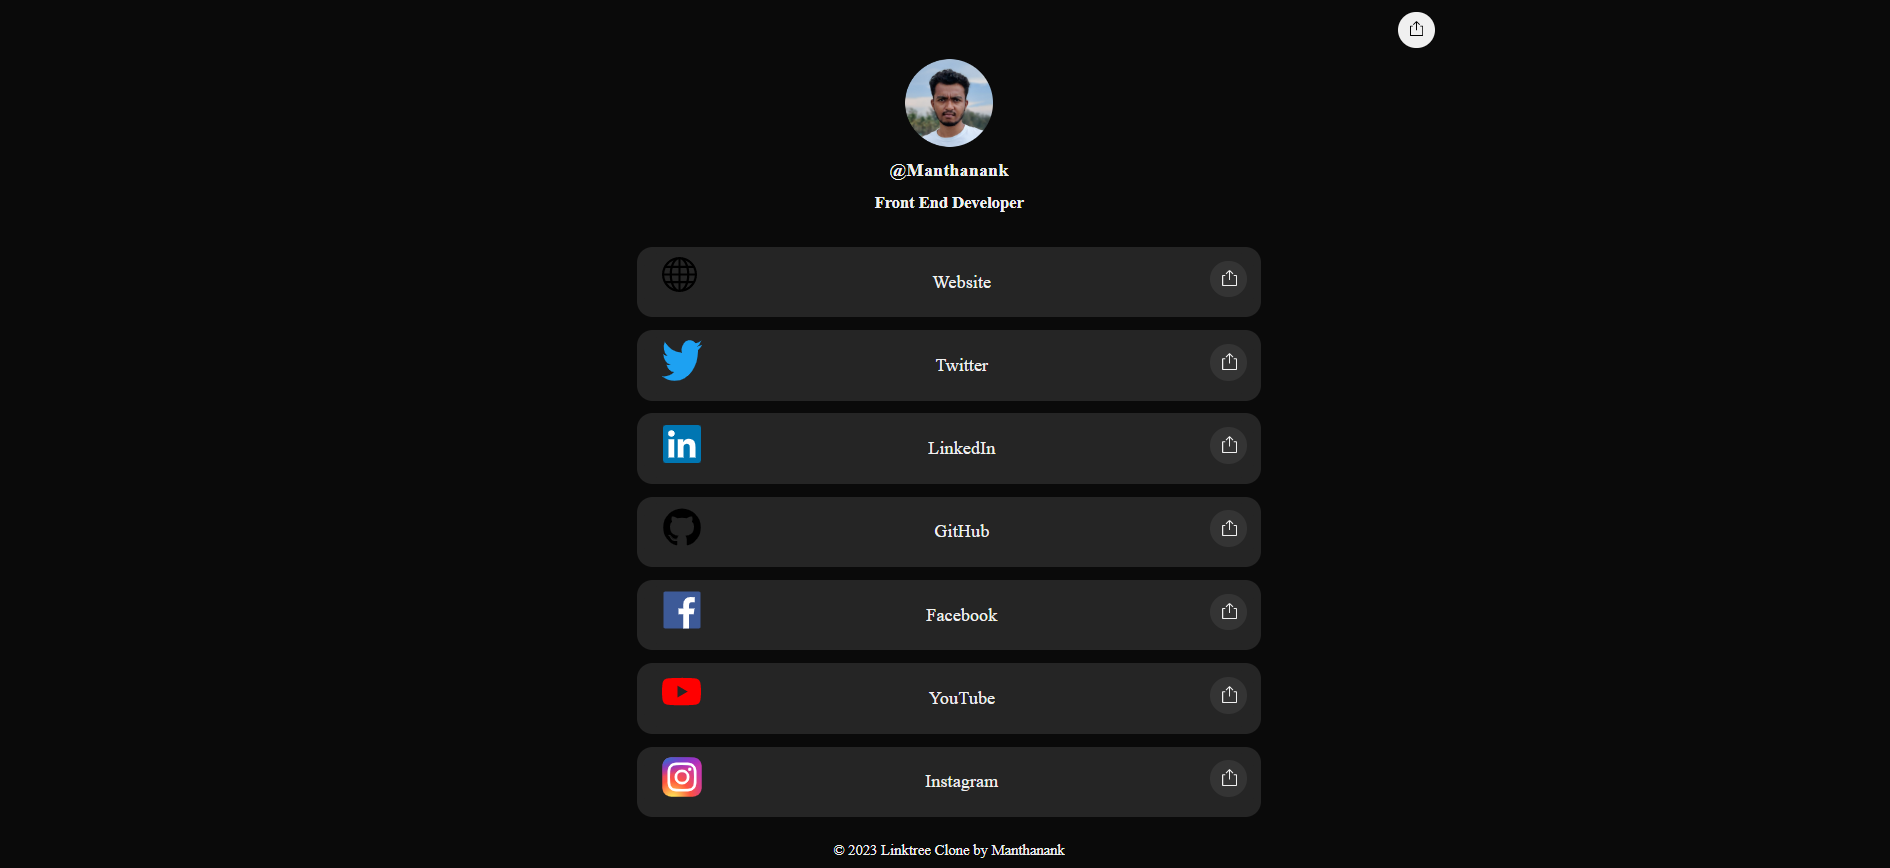
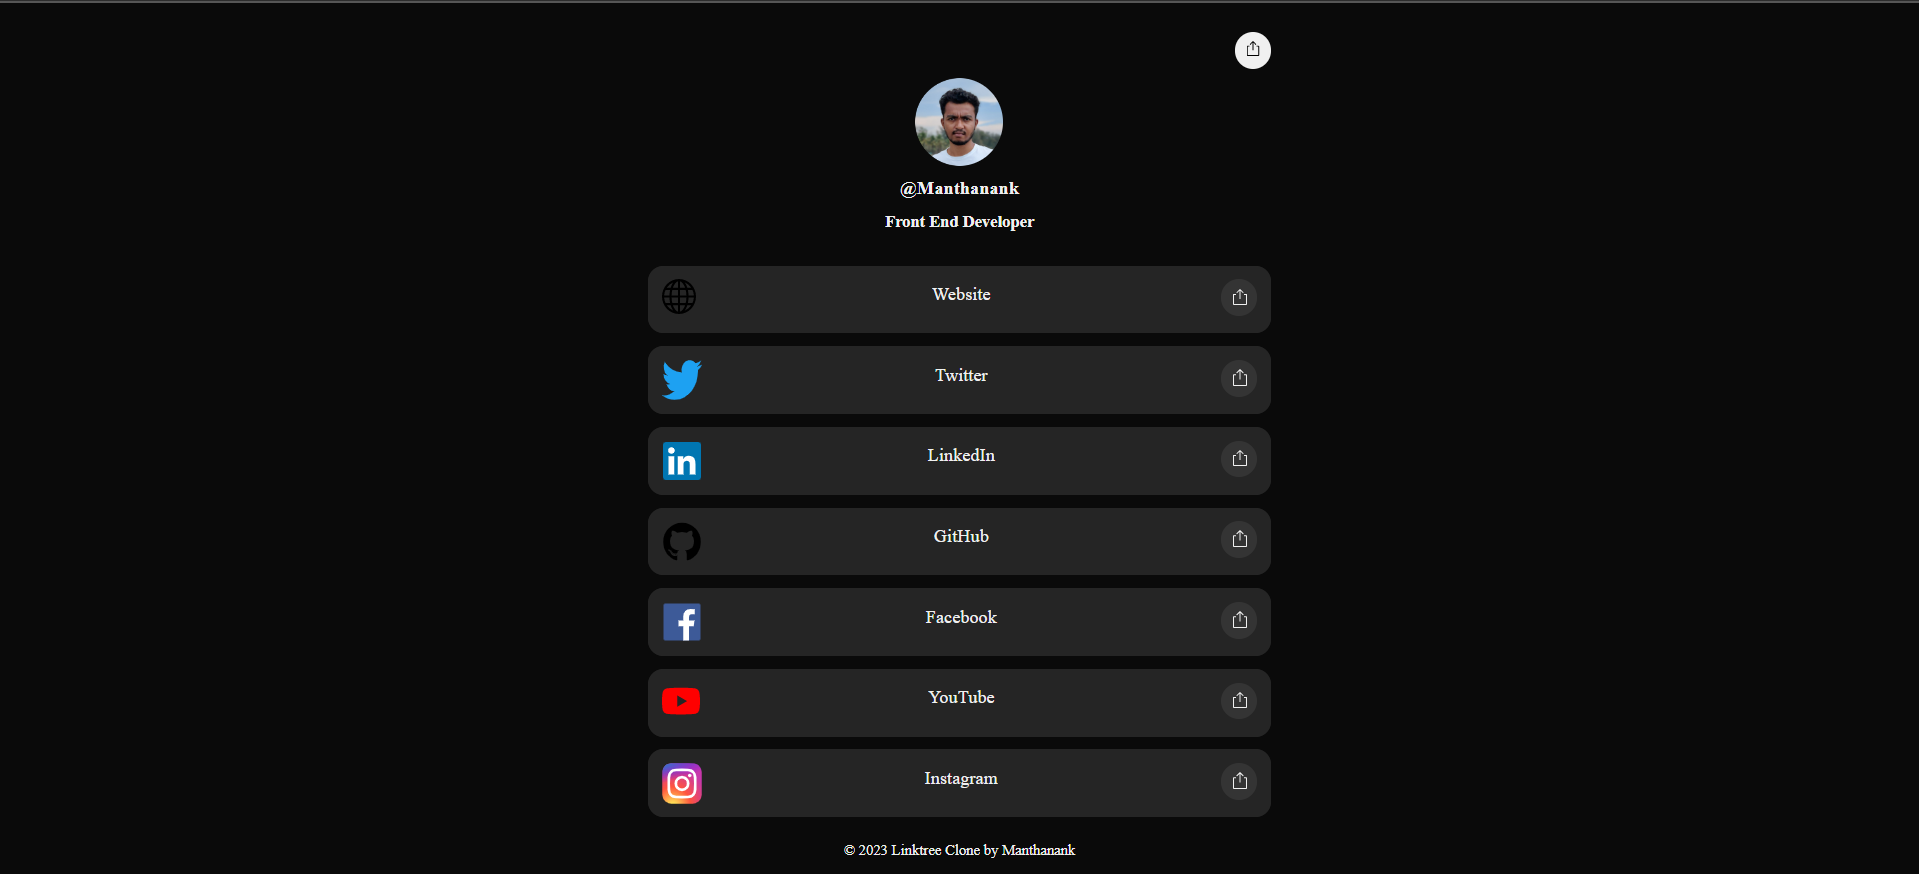
updated

diff --git a/src/app/app.component.html b/src/app/app.component.html
@@ -1,16 +1,16 @@
-<header>
-  <div class="share-button">
-    <a (click)="shareUrl()">
-      <svg width="16" height="16" viewBox="0 0 16 16" enable-background="new 0 0 24 24" class="sc-gKsewC iPWGYb">
-        <path fill-rule="evenodd" clip-rule="evenodd"
-          d="M10.6464 3.85347L11 4.20702L11.7071 3.49992L11.3536 3.14636L8.35355 0.146362H7.64645L4.64645 3.14636L4.29289 3.49992L5 4.20702L5.35355 3.85347L7.5 1.70702V9.49992V9.99992H8.5V9.49992V1.70702L10.6464 3.85347ZM1 5.49994L1.5 4.99994H4V5.99994H2V14.9999H14V5.99994H12V4.99994H14.5L15 5.49994V15.4999L14.5 15.9999H1.5L1 15.4999V5.49994Z"
-          fill="currentColor"></path>
-      </svg>
-    </a>
-  </div>
-</header>
 <main>
   <div class="container" *ngFor="let item of data">
+    <div class="header-container">
+      <div class="share-button">
+        <a (click)="shareUrl()">
+          <svg width="16" height="16" viewBox="0 0 16 16" enable-background="new 0 0 24 24" class="sc-gKsewC iPWGYb">
+            <path fill-rule="evenodd" clip-rule="evenodd"
+              d="M10.6464 3.85347L11 4.20702L11.7071 3.49992L11.3536 3.14636L8.35355 0.146362H7.64645L4.64645 3.14636L4.29289 3.49992L5 4.20702L5.35355 3.85347L7.5 1.70702V9.49992V9.99992H8.5V9.49992V1.70702L10.6464 3.85347ZM1 5.49994L1.5 4.99994H4V5.99994H2V14.9999H14V5.99994H12V4.99994H14.5L15 5.49994V15.4999L14.5 15.9999H1.5L1 15.4999V5.49994Z"
+              fill="currentColor"></path>
+          </svg>
+        </a>
+      </div>
+    </div>
     <div class="image-container">
       <img ngSrc="/assets/images/picture.png" width="100" height="200" priority alt="">
     </div>
@@ -20,12 +20,12 @@
     </div>
 
     <div class="tile-container" *ngFor="let item of data[0].links">
-      <a class="tile" href={{item.url}}>
+      <a class="tile" href={{item.url}} target="_blank">
         <div class="icon">
           <img src={{item.icon}} alt="">
         </div>
         <p>{{item.name}}</p>
-        <a class="tile-share-button" href={{item.url}}>
+        <a class="tile-share-button" href={{item.url}} target="_blank" aria-label="link">
           <svg width="18" height="18" viewBox="0 0 16 16" enable-background="new 0 0 24 24" class="sc-gKsewC iPWGYb">
             <path fill-rule="evenodd" clip-rule="evenodd"
               d="M10.6464 3.85347L11 4.20702L11.7071 3.49992L11.3536 3.14636L8.35355 0.146362H7.64645L4.64645 3.14636L4.29289 3.49992L5 4.20702L5.35355 3.85347L7.5 1.70702V9.49992V9.99992H8.5V9.49992V1.70702L10.6464 3.85347ZM1 5.49994L1.5 4.99994H4V5.99994H2V14.9999H14V5.99994H12V4.99994H14.5L15 5.49994V15.4999L14.5 15.9999H1.5L1 15.4999V5.49994Z"

diff --git a/src/app/app.component.scss b/src/app/app.component.scss
@@ -1,24 +1,3 @@
-header {
-    width: 75%;
-    display: flex;
-    justify-content: flex-end;
-    padding: 12px;
-    margin-top: 15px;
-
-    .share-button {
-        width: 40px;
-        height: 40px;
-        border-radius: 20px;
-        background-color: rgb(240, 240, 240);
-    }
-
-    .share-button svg {
-        margin-left: 12px;
-        margin-top: 10px;
-        color: rgb(0, 0, 0);
-    }
-}
-
 main {
     display: flex;
     align-items: center;
@@ -28,7 +7,7 @@ main {
 .container {
     width: 91%;
     max-width: 680px;
-    // margin-top: 50px;
+    margin-top: 2rem;
     display: flex;
     flex-direction: column;
     align-items: center;
@@ -48,6 +27,37 @@ main {
     }
 }
 
+.header-container {
+    display: flex;
+    justify-content: flex-end;
+    width: 100%;
+
+    .share-button {
+        width: 40px;
+        height: 40px;
+        border-radius: 20px;
+        background-color: rgb(240, 240, 240);
+    }
+
+    .share-button svg {
+        margin-left: 12px;
+        margin-top: 10px;
+        color: rgb(0, 0, 0);
+    }
+}
+
+.image-container {
+    margin-top: 10px;
+    height: 96px;
+    width: 96px;
+    border-radius: 48px;
+    overflow: hidden;
+}
+
+.image-container img {
+    height: 100%;
+}
+
 .tile-container {
     width: 100%;
     background-color: rgb(37, 37, 37);
@@ -64,10 +74,15 @@ main {
     .tile {
         width: 100%;
         background-color: rgb(37, 37, 37);
-        margin: 7px;
         border-radius: 17px;
         display: flex;
         justify-content: space-between;
+    }
+
+    .icon {
+        margin: 15px 15px;
+        width: 44px;
+        height: 44px;
     }
 
     .tile:hover {
@@ -76,7 +91,7 @@ main {
     }
 
     .tile-share-button {
-        margin: 8px;
+        margin: 15px;
         width: 40px;
         height: 40px;
         border-radius: 20px;
@@ -92,24 +107,6 @@ main {
         font-size: 20px;
     }
 
-}
-
-.image-container {
-    height: 96px;
-    width: 96px;
-    border-radius: 48px;
-    overflow: hidden;
-}
-
-.image-container img {
-    height: 100%;
-}
-
-
-.icon {
-    margin: 4px 20px;
-    width: 44px;
-    height: 44px;
 }
 
 .footer-container {
